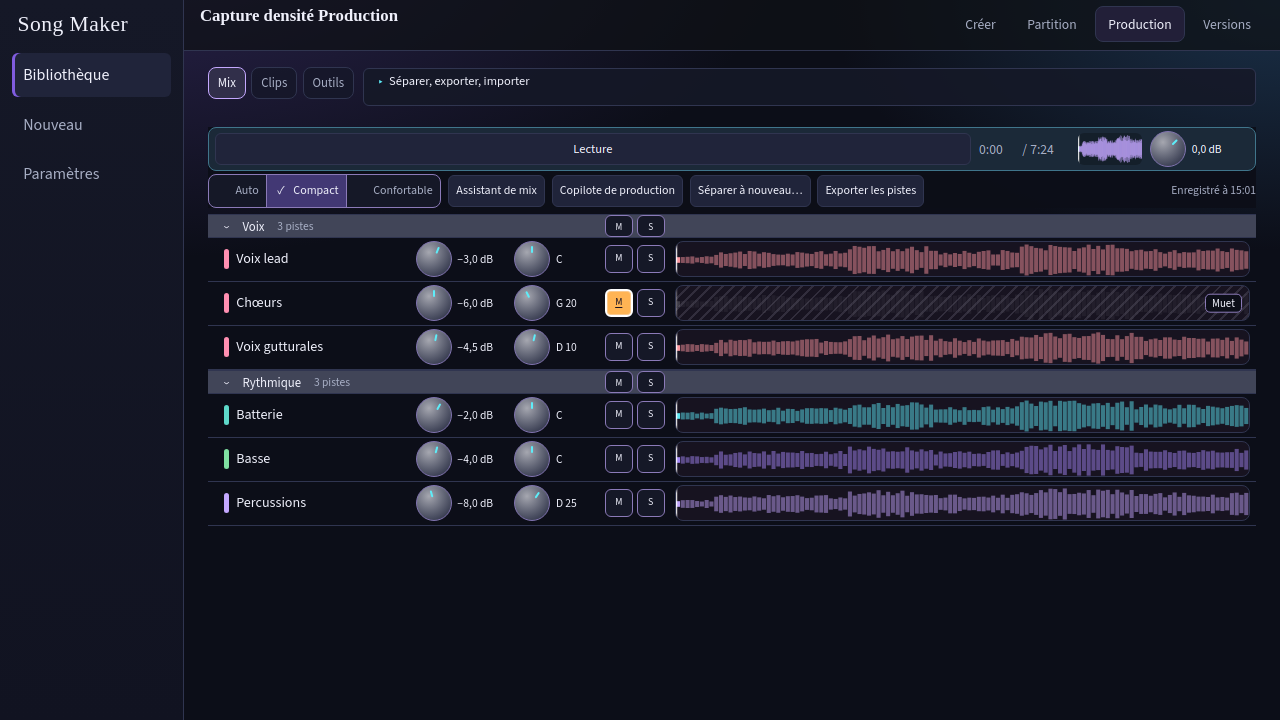
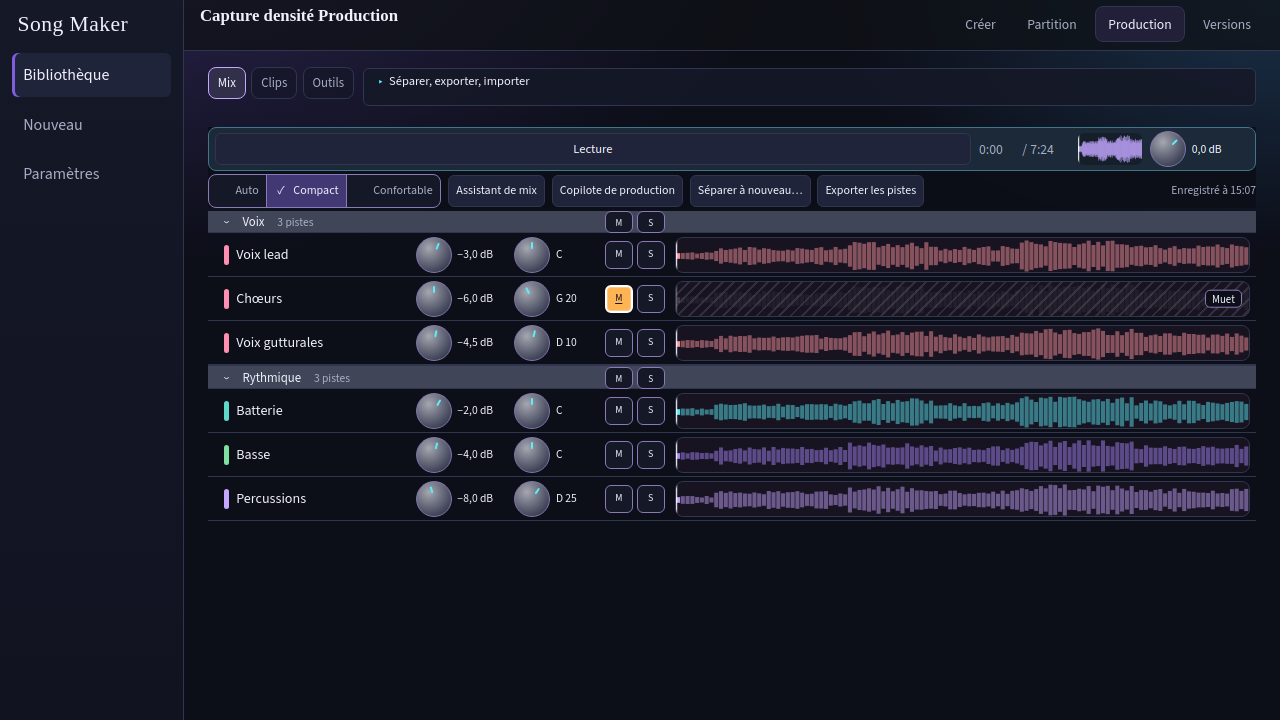
fix(production): auto strict, 6 pistes sans scroll, M/S groupe hit 24px (#150)
- Suppression tolérance auto ; padding liste réduit pour tenir en confortable
- metrics checks (listFits, knob >= 3.5px, group hit >= 24px)
- Zone cliquable groupe 28×24 via pseudo ±1px

Changed region(s): [[0.1562, 0.275, 1.0, 0.7333], [0.1875, 0.3972, 0.2188, 0.4278]]

diff --git a/src/dev/productionCaptureMetrics.ts b/src/dev/productionCaptureMetrics.ts
@@ -1,5 +1,12 @@
 /** Mesures DOM pour captures Playwright (getBoundingClientRect). */
 
+import {
+  GROUP_MS_HIT_EXTENSION_PX,
+  MIN_GROUP_MS_HIT_HEIGHT_PX,
+  MIN_KNOB_VERTICAL_MARGIN_PX,
+  productionListFitsInScroll,
+} from "../lib/productionTrackLayout";
+
 function r1(v: number): number {
   return Math.round(v * 100) / 100;
 }
@@ -7,6 +14,14 @@ function r1(v: number): number {
 function rect(el: Element): DOMRect {
   return el.getBoundingClientRect();
 }
+
+export type ProductionCaptureChecks = {
+  listFits: boolean;
+  knobMarginMinPx: number | null;
+  knobMarginOk: boolean;
+  groupMsHitHeightPx: number | null;
+  groupMsHitOk: boolean;
+};
 
 export type ProductionCaptureMetrics = {
   density: string;
@@ -38,7 +53,34 @@ export type ProductionCaptureMetrics = {
   listScrolls: boolean;
   scrollHeight: number;
   clientHeight: number;
+  checks: ProductionCaptureChecks;
 };
+
+export function buildProductionCaptureChecks(
+  metrics: Pick<
+    ProductionCaptureMetrics,
+    "scrollHeight" | "clientHeight" | "knobMinVerticalMarginAllRows" | "groupHeader"
+  >,
+): ProductionCaptureChecks {
+  const knobMarginMinPx = metrics.knobMinVerticalMarginAllRows;
+  const groupMsHitHeightPx = metrics.groupHeader?.msHitHeightPx ?? null;
+  return {
+    listFits: productionListFitsInScroll(metrics.scrollHeight, metrics.clientHeight),
+    knobMarginMinPx,
+    knobMarginOk:
+      knobMarginMinPx == null ? false : knobMarginMinPx >= MIN_KNOB_VERTICAL_MARGIN_PX,
+    groupMsHitHeightPx,
+    groupMsHitOk:
+      groupMsHitHeightPx == null
+        ? false
+        : groupMsHitHeightPx >= MIN_GROUP_MS_HIT_HEIGHT_PX,
+  };
+}
+
+function groupMsHitHeightPx(btn: Element): number {
+  const b = rect(btn);
+  return r1(b.height + GROUP_MS_HIT_EXTENSION_PX * 2);
+}
 
 export function measureProductionMix(): ProductionCaptureMetrics | null {
   const scroll = document.querySelector(".production-mix-scroll");
@@ -119,15 +161,20 @@ export function measureProductionMix(): ProductionCaptureMetrics | null {
   let groupHeader: ProductionCaptureMetrics["groupHeader"] = null;
   const gh = groups[0];
   if (gh) {
-    const gms = Array.from(gh.querySelectorAll(".track-ms-btn")).map(rect);
+    const gms = Array.from(gh.querySelectorAll(".track-ms-btn"));
+    const gmsRect = gms.map(rect);
+    const hitH = gms[0] ? groupMsHitHeightPx(gms[0]) : 0;
     groupHeader = {
       heightPx: r1(rect(gh).height),
-      msVisiblePx: gms.map((b) => ({ w: r1(b.width), h: r1(b.height) })),
-      msHitHeightPx: gms[0] ? r1(gms[0].height) : 0,
+      msVisiblePx: gmsRect.map((b) => ({ w: r1(b.width), h: r1(b.height) })),
+      msHitHeightPx: hitH,
     };
   }
 
-  return {
+  const scrollHeight = scroll.scrollHeight;
+  const clientHeight = scroll.clientHeight;
+
+  const base = {
     density: panel.getAttribute("data-density") ?? "",
     densityPreference: panel.getAttribute("data-density-preference") ?? "",
     tracksTotal: rows.length,
@@ -139,8 +186,13 @@ export function measureProductionMix(): ProductionCaptureMetrics | null {
     nameColumnPx,
     truncatedHaveTitle,
     rowsFullyVisible: fullyRows.length,
-    listScrolls: scroll.scrollHeight > scroll.clientHeight + 1,
-    scrollHeight: scroll.scrollHeight,
-    clientHeight: scroll.clientHeight,
+    listScrolls: scrollHeight > clientHeight,
+    scrollHeight,
+    clientHeight,
+  };
+
+  return {
+    ...base,
+    checks: buildProductionCaptureChecks(base),
   };
 }

diff --git a/src/lib/productionTrackLayout.test.ts b/src/lib/productionTrackLayout.test.ts
@@ -5,6 +5,8 @@ import {
   buildTrackFamilyGroups,
   effectiveDensityFromPreference,
   isExperimentalStemTrack,
+  MIN_KNOB_VERTICAL_MARGIN_PX,
+  productionListFitsInScroll,
   shouldUseCompactForAutoDensity,
   shouldUseProductionTightLayout,
   trackFamilyForRole,
@@ -71,11 +73,24 @@ describe("effectiveDensityFromPreference", () => {
 });
 
 describe("shouldUseCompactForAutoDensity", () => {
-  it("bascule en compact seulement si la liste déborde", () => {
+  it("bascule en compact seulement si scrollHeight > clientHeight (strict)", () => {
     assert.equal(shouldUseCompactForAutoDensity(500, 400), true);
     assert.equal(shouldUseCompactForAutoDensity(400, 400), false);
-    assert.equal(shouldUseCompactForAutoDensity(488, 486), false);
-    assert.equal(shouldUseCompactForAutoDensity(520, 486), true);
+    assert.equal(shouldUseCompactForAutoDensity(486, 486), false);
+    assert.equal(shouldUseCompactForAutoDensity(487, 486), true);
+  });
+});
+
+describe("productionListFitsInScroll", () => {
+  it("exige scrollHeight <= clientHeight", () => {
+    assert.equal(productionListFitsInScroll(486, 486), true);
+    assert.equal(productionListFitsInScroll(488, 486), false);
+  });
+});
+
+describe("MIN_KNOB_VERTICAL_MARGIN_PX", () => {
+  it("fixe le seuil d’acceptation des marges potards", () => {
+    assert.equal(MIN_KNOB_VERTICAL_MARGIN_PX, 3.5);
   });
 });
 

diff --git a/src/lib/productionTrackLayout.ts b/src/lib/productionTrackLayout.ts
@@ -13,15 +13,29 @@ export function effectiveDensityFromPreference(
   return preference === "auto" ? autoResolved : preference;
 }
 
-/** Marge pour bordures / arrondis avant de basculer l’auto en compact (#150). */
-export const AUTO_DENSITY_OVERFLOW_TOLERANCE_PX = 16;
+/** Seuil minimal de marge verticale des potards (compact, demi-pixels acceptés). */
+export const MIN_KNOB_VERTICAL_MARGIN_PX = 3.5;
 
-/** Passe en compact auto uniquement si la liste déborde verticalement. */
+/** Hauteur minimale de la zone cliquable M/S de groupe (WCAG 2.2). */
+export const MIN_GROUP_MS_HIT_HEIGHT_PX = 24;
+
+/** Extension verticale du pseudo-élément de hit M/S de groupe (chaque côté). */
+export const GROUP_MS_HIT_EXTENSION_PX = 1;
+
+/** La liste tient dans le viewport scrollable sans défilement. */
+export function productionListFitsInScroll(
+  scrollHeight: number,
+  clientHeight: number,
+): boolean {
+  return scrollHeight <= clientHeight;
+}
+
+/** Passe en compact auto uniquement si la liste déborde (strict, sans tolérance). */
 export function shouldUseCompactForAutoDensity(
   scrollHeight: number,
   clientHeight: number,
 ): boolean {
-  return scrollHeight > clientHeight + AUTO_DENSITY_OVERFLOW_TOLERANCE_PX;
+  return scrollHeight > clientHeight;
 }
 
 /** Vue mix : chrome resserré pour maximiser la hauteur de la liste (#137, #150). */

diff --git a/src/dev/productionCaptureMetrics.test.ts b/src/dev/productionCaptureMetrics.test.ts
@@ -1,0 +1,27 @@
+import assert from "node:assert/strict";
+import { describe, it } from "node:test";
+import { buildProductionCaptureChecks } from "./productionCaptureMetrics";
+
+describe("buildProductionCaptureChecks", () => {
+  it("valide listFits pour six pistes confortable", () => {
+    const checks = buildProductionCaptureChecks({
+      scrollHeight: 486,
+      clientHeight: 486,
+      knobMinVerticalMarginAllRows: 3.5,
+      groupHeader: { heightPx: 24, msVisiblePx: [], msHitHeightPx: 24 },
+    });
+    assert.equal(checks.listFits, true);
+    assert.equal(checks.knobMarginOk, true);
+    assert.equal(checks.groupMsHitOk, true);
+  });
+
+  it("rejette un débordement de 2 px", () => {
+    const checks = buildProductionCaptureChecks({
+      scrollHeight: 488,
+      clientHeight: 486,
+      knobMinVerticalMarginAllRows: 3.5,
+      groupHeader: { heightPx: 24, msVisiblePx: [], msHitHeightPx: 24 },
+    });
+    assert.equal(checks.listFits, false);
+  });
+});

diff --git a/src/App.css b/src/App.css
@@ -902,7 +902,7 @@ option {
   min-height: 0;
   display: flex;
   flex-direction: column;
-  gap: 0.35rem;
+  gap: 0.2rem;
 }
 
 .production-mix-sticky-master {
@@ -923,7 +923,8 @@ option {
   min-height: 0;
   overflow-y: auto;
   overflow-x: auto;
-  padding-bottom: 0.5rem;
+  /* Rogne le padding bas pour que 6 pistes confortable tiennent sans scroll (#150). */
+  padding-bottom: 0.125rem;
   scrollbar-color: #5a4f80 #1b1723;
   scrollbar-width: thin;
 }
@@ -1055,6 +1056,7 @@ option {
   flex-direction: column;
   gap: 0;
   min-width: 0;
+  margin-top: -2px;
 }
 
 .mixer-density[data-density="compact"] {
@@ -1189,8 +1191,8 @@ option {
   position: absolute;
   left: 0;
   right: 0;
-  top: -4px;
-  bottom: -4px;
+  top: -1px;
+  bottom: -1px;
 }
 
 .mixer-density .track-ms-btn-m.pressed,
